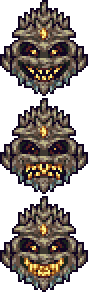
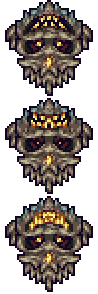
Greed phase 1 is complete

diff --git a/NPCs/Bosses/Greed/Greed.cs b/NPCs/Bosses/Greed/Greed.cs
@@ -10,6 +10,7 @@ using Terraria.ModLoader;
 
 namespace AAMod.NPCs.Bosses.Greed
 {
+    [AutoloadBossHead]
 	public class Greed : ModNPC
 	{
         public int damage = 0;
@@ -132,25 +133,13 @@ namespace AAMod.NPCs.Bosses.Greed
                     npc.realLife = npc.whoAmI;
                     int latestNPC = npc.whoAmI;
 
-                    for (int i = 0; i < 23; ++i)
+                    for (int i = 0; i < 24; ++i)
                     {
-                        latestNPC = NPC.NewNPC((int)npc.Center.X, (int)npc.Center.Y, mod.NPCType("AkumaArms"), npc.whoAmI, 0, latestNPC);
+                        latestNPC = NPC.NewNPC((int)npc.Center.X, (int)npc.Center.Y, mod.NPCType("GreedBody"), npc.whoAmI, 0, latestNPC);
                         Main.npc[latestNPC].realLife = npc.whoAmI;
-                        Main.npc[latestNPC].ai[2] = npc.whoAmI;
+                        Main.npc[latestNPC].ai[2] = i;
                         Main.npc[latestNPC].ai[3] = npc.whoAmI;
                     }
-
-                    latestNPC = NPC.NewNPC((int)npc.Center.X, (int)npc.Center.Y, mod.NPCType("AkumaBody"), npc.whoAmI, 0, latestNPC);
-                    Main.npc[latestNPC].realLife = npc.whoAmI;
-                    Main.npc[latestNPC].ai[3] = npc.whoAmI;
-
-                    latestNPC = NPC.NewNPC((int)npc.Center.X, (int)npc.Center.Y, mod.NPCType("AkumaBody1"), npc.whoAmI, 0, latestNPC);
-                    Main.npc[latestNPC].realLife = npc.whoAmI;
-                    Main.npc[latestNPC].ai[3] = npc.whoAmI;
-
-                    latestNPC = NPC.NewNPC((int)npc.Center.X, (int)npc.Center.Y, mod.NPCType("AkumaTail"), npc.whoAmI, 0, latestNPC);
-                    Main.npc[latestNPC].realLife = npc.whoAmI;
-                    Main.npc[latestNPC].ai[3] = npc.whoAmI;
 
                     npc.ai[0] = 1;
                     npc.netUpdate = true;
@@ -159,7 +148,7 @@ namespace AAMod.NPCs.Bosses.Greed
 
             bool collision = true;
 
-            float speed = 12f;
+            float speed = 16f;
             float acceleration = 0.13f;
 
             Vector2 npcCenter = new Vector2(npc.position.X + npc.width * 0.5f, npc.position.Y + npc.height * 0.5f);
@@ -403,6 +392,7 @@ namespace AAMod.NPCs.Bosses.Greed
         }
     }
 
+    [AutoloadBossHead]
     public class GreedBody : Greed
     {
         public override string Texture { get { return "AAMod/NPCs/Bosses/Greed/GreedBody"; } }
@@ -411,7 +401,7 @@ namespace AAMod.NPCs.Bosses.Greed
         {
             DisplayName.SetDefault("Greed");
             NPCID.Sets.TechnicallyABoss[npc.type] = true;
-            Main.npcFrameCount[npc.type] = 23;
+            Main.npcFrameCount[npc.type] = 24;
         }
 
         public override void SetDefaults()
@@ -491,8 +481,22 @@ namespace AAMod.NPCs.Bosses.Greed
             {
                 npc.TargetClosest(true);
             }
-            npc.netUpdate = true;
-            return false;
+            if (npc.alpha < 0)
+            {
+                npc.alpha = 0;
+                return false;
+            }
+            else
+            {
+                for (int spawnDust = 0; spawnDust < 4; spawnDust++)
+                {
+                    int num935 = Dust.NewDust(new Vector2(npc.position.X, npc.position.Y), npc.width, npc.height, DustID.GoldCoin, 0f, 0f, 100, default, 2f);
+                    Main.dust[num935].noGravity = true;
+                    Main.dust[num935].noLight = true;
+                }
+                npc.alpha -= 3;
+                return false;
+            }
         }
 
         public override void BossHeadSpriteEffects(ref SpriteEffects spriteEffects)
@@ -563,44 +567,16 @@ namespace AAMod.NPCs.Bosses.Greed
                     return npc.defense = 53;
                 case 21:
                     return npc.defense = 56;
-                default:
+                case 22:
                     return npc.defense = 58;
+                default:
+                    return npc.defense = 30;
             }
         }
-    }
 
-    public class GreedTail : Greed
-    {
-        public override string Texture => "AAMod/NPCs/Bosses/Greed/GreedTail";
-        public override void SetStaticDefaults()
+        public override void BossHeadSlot(ref int index)
         {
-            DisplayName.SetDefault("Greed");
-            Main.npcFrameCount[npc.type] = 1;
-        }
-
-        public override void SetDefaults()
-        {
-            base.SetDefaults();
-            npc.dontCountMe = true;
-        }
-
-        public override bool PreNPCLoot()
-        {
-            return false;
-        }
-
-        public override bool? DrawHealthBar(byte hbPosition, ref float scale, ref Vector2 position)
-        {
-            return false;
-        }
-
-        public override bool CheckActive()
-        {
-            if (NPC.AnyNPCs(mod.NPCType<Greed>()))
-            {
-                return false;
-            }
-            return true;
+            base.BossHeadSlot(ref index);
         }
     }
 }

diff --git a/NPCs/Enemies/Cavern/Scavenger.cs b/NPCs/Enemies/Cavern/Scavenger.cs
@@ -25,7 +25,7 @@ namespace AAMod.NPCs.Enemies.Cavern
             npc.value = BaseMod.BaseUtility.CalcValue(0, 0, 0, 90);
             npc.npcSlots = 5;
             npc.aiStyle = -1;
-            npc.lifeMax = 70;
+            npc.lifeMax = 300;
             npc.defense = 15;
             npc.damage = 20;
             npc.HitSound = SoundID.NPCHit1;
@@ -54,7 +54,7 @@ namespace AAMod.NPCs.Enemies.Cavern
 
 		public override void AI()
         {
-            int[] types = new int[] { mod.NPCType("Scavenger"), mod.NPCType("ScavengerBody"), mod.NPCType("ScavengerTail") };
+            int[] types = new int[] { mod.NPCType("Scavenger"), mod.NPCType("ScavengerBody"), mod.NPCType("ScavengerBody"), mod.NPCType("ScavengerBody"), mod.NPCType("ScavengerTail") };
             BaseAI.AIWorm(npc, types, 5, 6f, 8f, 0.07f, false, true);
         }
 
@@ -77,7 +77,7 @@ namespace AAMod.NPCs.Enemies.Cavern
             base.SetDefaults();
             npc.value = BaseUtility.CalcValue(0, 0, 0, 75);
             npc.npcSlots = 3;
-            npc.lifeMax = 50;
+            npc.lifeMax = 300;
             npc.defense = 10;
             npc.damage = 15;
         }
@@ -90,7 +90,7 @@ namespace AAMod.NPCs.Enemies.Cavern
             base.SetDefaults();
             npc.value = BaseUtility.CalcValue(0, 0, 0, 60);
             npc.npcSlots = 3;
-            npc.lifeMax = 50;
+            npc.lifeMax = 300;
             npc.defense = 10;
             npc.damage = 15;
         }

diff --git a/Worldgeneration/ChaosBiome.cs b/Worldgeneration/ChaosBiome.cs
@@ -727,8 +727,8 @@ namespace AAMod.Worldgeneration
             WorldGen.PlaceObject(origin.X + 1, origin.Y + 60, mod.TileType("GreedDoorClosed"));
             WorldGen.PlaceObject(origin.X + 159, origin.Y + 77, mod.TileType("GreedDoorClosed"));
             NetMessage.SendObjectPlacment(-1, origin.X + 80, origin.Y + 88, mod.TileType("GreedAltar"), 0, 0, -1, -1);
-            NetMessage.SendObjectPlacment(-1, origin.X + 1, origin.Y + 60, mod.TileType("GreedDoorClosed"), 0, 0, -1, -1);
-            NetMessage.SendObjectPlacment(-1, origin.X + 159, origin.Y + 77, mod.TileType("GreedDoorClosed"), 0, 0, -1, -1);
+            NetMessage.SendObjectPlacment(-1, origin.X + 1, origin.Y + 60, mod.TileType("GreedDoorLocked"), 0, 0, -1, -1);
+            NetMessage.SendObjectPlacment(-1, origin.X + 159, origin.Y + 77, mod.TileType("GreedDoorLocked"), 0, 0, -1, -1);
             HoardChest(origin.X + 19, origin.Y + 55);
             HoardChest(origin.X + 38, origin.Y + 67, 1);
             HoardChest(origin.X + 25, origin.Y + 34);

diff --git a/Tiles/GreedAltar.cs b/Tiles/GreedAltar.cs
@@ -54,7 +54,14 @@ namespace AAMod.Tiles
                     if (item != null && item.type == type && item.stack >= 1)
                     {
                         item.stack--;
-                        AAModGlobalNPC.SpawnBoss(player, mod.NPCType<Greed>(), false, new Vector2(i, j + 100), "Greed");
+                        if (AAWorld.downedGreed)
+                        {
+                            AAModGlobalNPC.SpawnBoss(player, mod.NPCType<Greed>(), true, 0, 0, "Greed");
+                        }
+                        else
+                        {
+                            AAModGlobalNPC.SpawnBoss(player, mod.NPCType<GreedSpawn>(), false, new Vector2(i * 16, (j * 16) - 100), "Greed");
+                        }
                     }
                 }
             }

diff --git a/NPCs/Bosses/Greed/GreedSpawn.cs b/NPCs/Bosses/Greed/GreedSpawn.cs
@@ -44,16 +44,16 @@ namespace AAMod.NPCs.Bosses.Greed
                 Rotation += .05f;
 
 
-                if (npc.ai[0] > 375)
+                if (npc.ai[0] > 175)
 				{
-					npc.alpha -= 5;
+					npc.alpha -= 3;
 					if (npc.alpha < 0)
 					{
 						npc.alpha = 0;
 					}
 				}
 
-                if (npc.ai[0] >= 1100)
+                if (npc.ai[0] >= 570)
                 {
                     music = mod.GetSoundSlot(SoundType.Music, "Sounds/Music/Greed");
                 }
@@ -98,6 +98,7 @@ namespace AAMod.NPCs.Bosses.Greed
             {
                 return false;
             }
+            npc.active = false;
             return true;
         }
 
